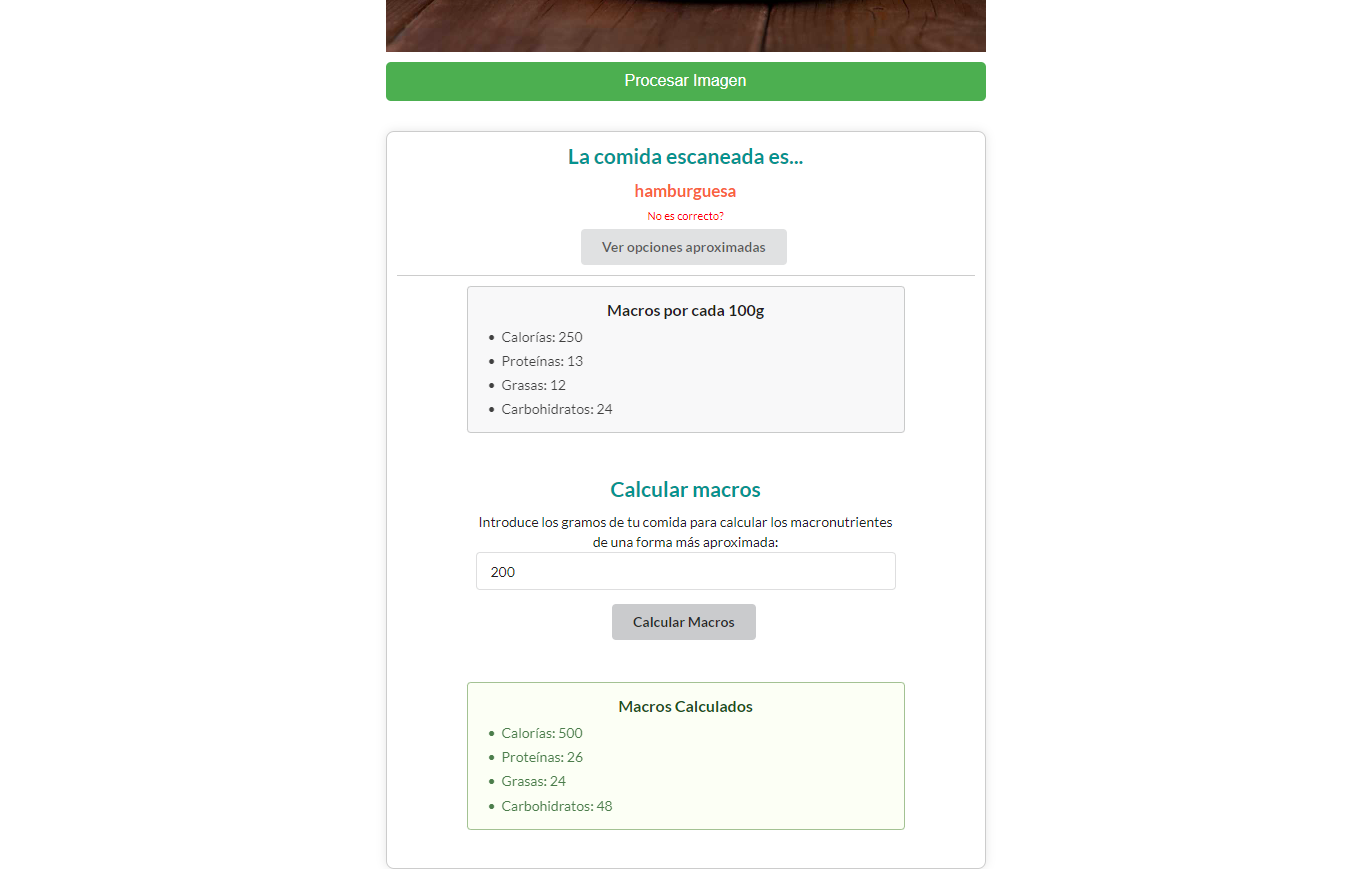
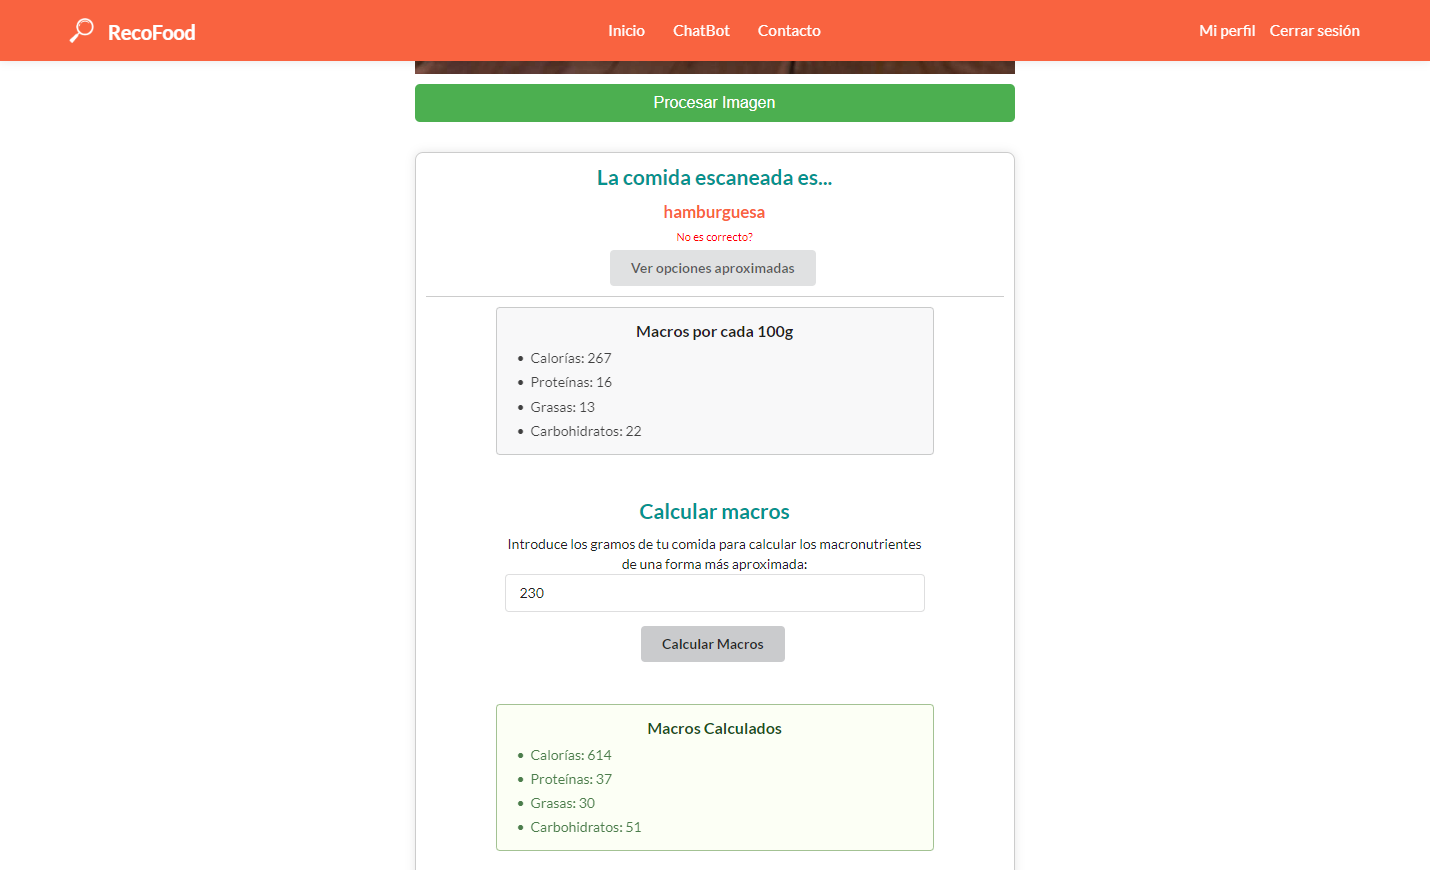
feat: update readme

diff --git a/Web_React_App/src/App.scss b/Web_React_App/src/App.scss
@@ -10,6 +10,7 @@
     background-color: $orange;
     box-shadow: 0px 0px 10px 0px rgba(0, 0, 0, 0.1);
     margin-bottom: 2.5rem;
+    position: fixed;
   }
   
 .menuItem {

diff --git a/README.md b/README.md
@@ -395,7 +395,7 @@ Si el usuario tiene la sesión iniciada, podrá calcular los macronutrientes seg
 
 Si la clasificación de la comida falla (ya que el modelo no tiene una precisión del 100%), el usuario podrá ver las 5 comidas más aproximadas, teniendo la opción de seleccionar la que sea correcta para ver los macros, calcularlos y guardarlo correctamente en el historial.
 
-![If prediction fails](/Capturas_Codigo/Prediction_Falied.PNG)
+![If prediction fails](/Capturas_Codigo/Prediction_Failed.PNG)
 
 Para el registro de usuarios hemos hecho el siguiente diseño de la interfaz:
 
